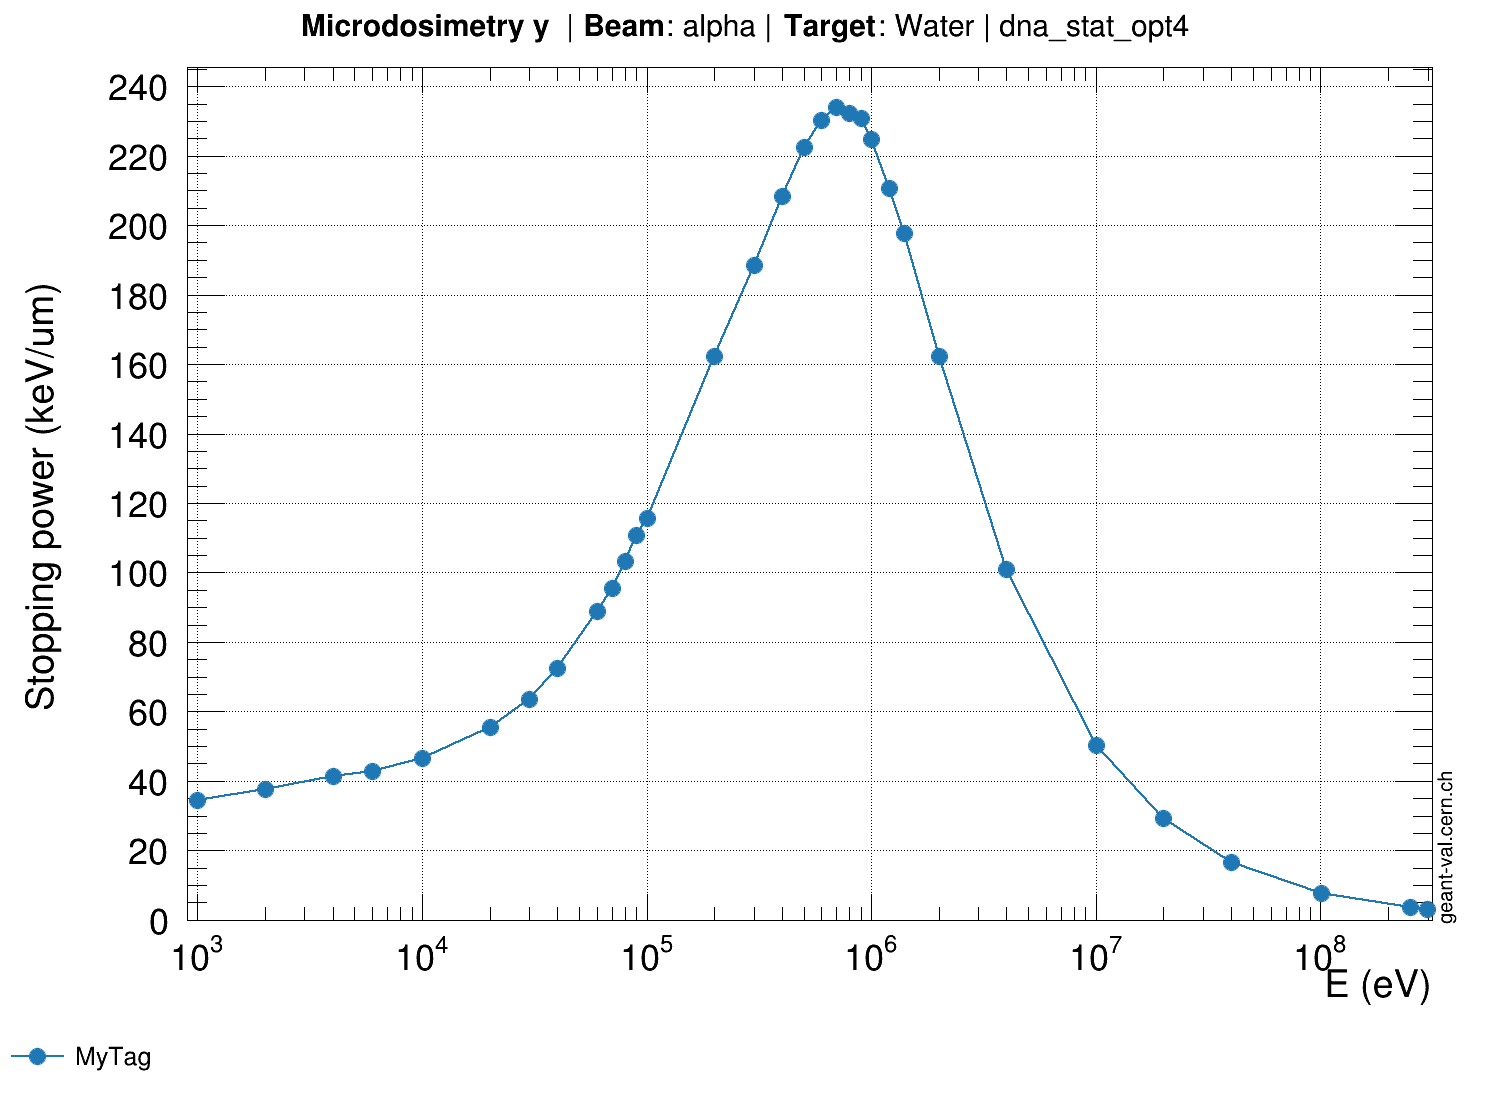
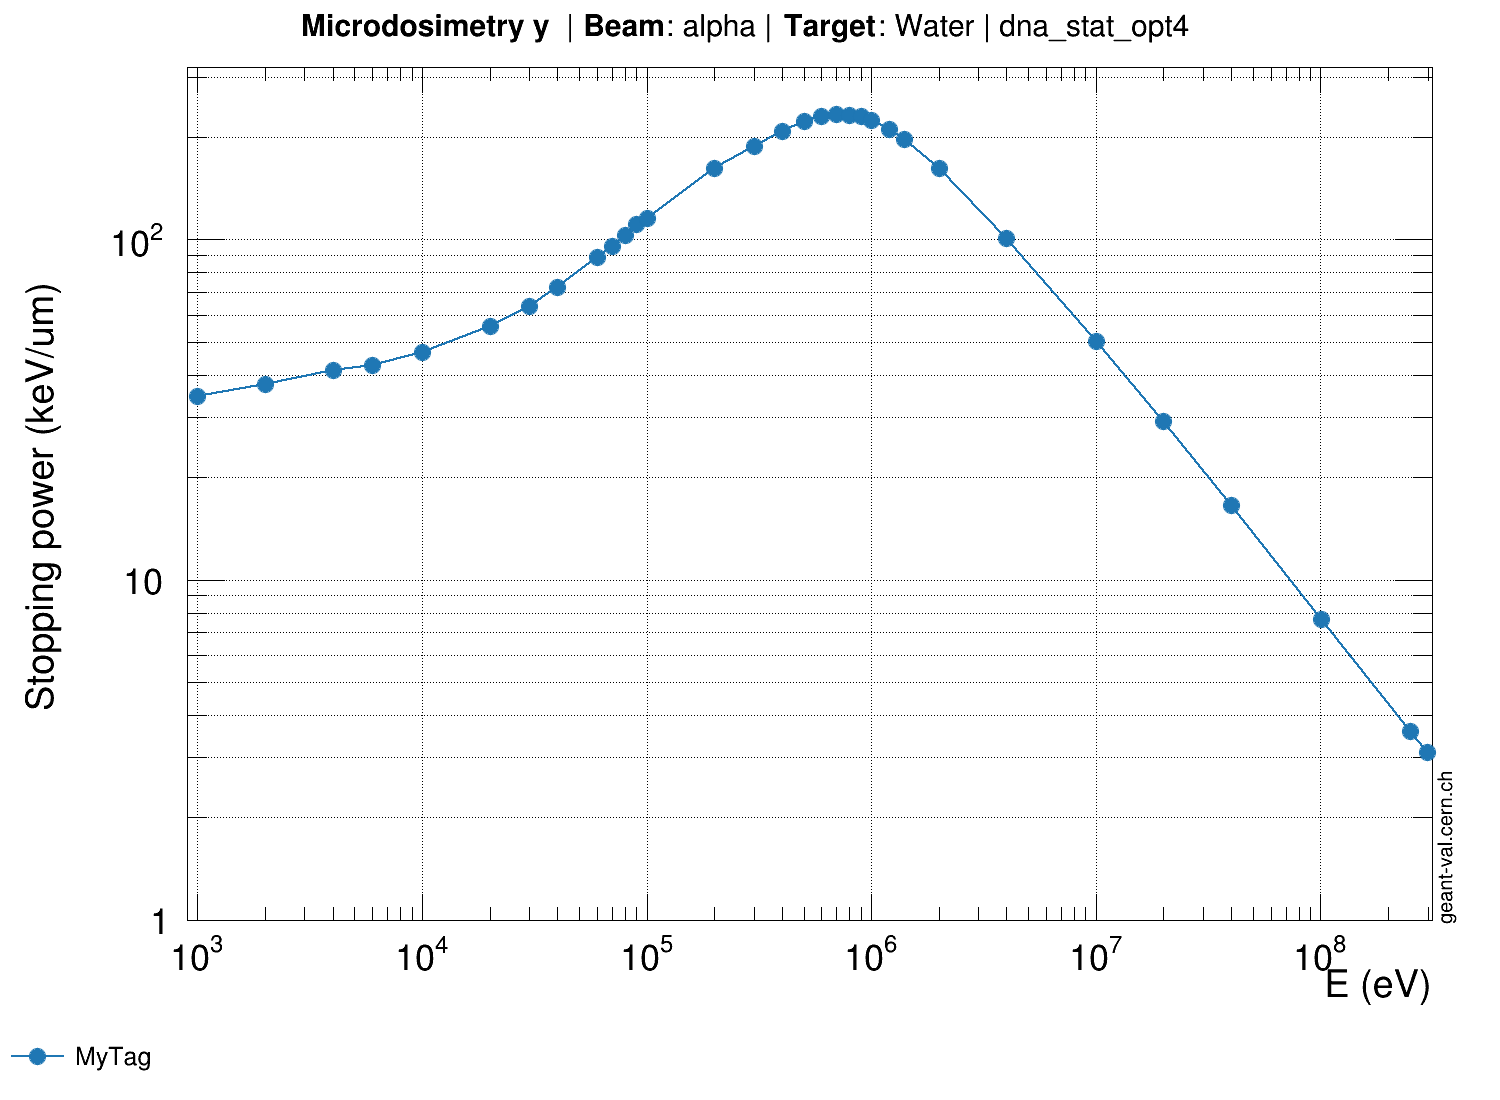
lun. mars 20 15:55:22 CET 2023

diff --git a/assets/OUTPUTJSON/geant4/MyTag/x86_64/spower/alpha.conf.c b/assets/OUTPUTJSON/geant4/MyTag/x86_64/spower/alpha.conf.c
@@ -142,3 +142,147 @@ double gvp_id-1_yerrors[32] = {
   0,
   0
 };
+// Tool:               GEANT4
+// Version:            MyTag
+// Model:              dna_stat_opt4
+// Observable:         microdosimetry y
+// Target:             Water
+// Beam Particle:      alpha
+// Secondary Particle: None
+
+double gvp_id-1_x[32] = {
+  1000,
+  2000,
+  4000,
+  6000,
+  10000,
+  20000,
+  30000,
+  40000,
+  60000,
+  70000,
+  80000,
+  90000,
+  100000,
+  200000,
+  300000,
+  400000,
+  500000,
+  600000,
+  700000,
+  800000,
+  900000,
+  1e+06,
+  1.2e+06,
+  1.4e+06,
+  2e+06,
+  4e+06,
+  1e+07,
+  2e+07,
+  4e+07,
+  1.01e+08,
+  2.5e+08,
+  2.99e+08
+};
+double gvp_id-1_y[32] = {
+  34.5772,
+  37.698,
+  41.3434,
+  42.7933,
+  46.6023,
+  55.5736,
+  63.5463,
+  72.3514,
+  89.0047,
+  95.5218,
+  103.346,
+  110.651,
+  115.691,
+  162.183,
+  188.624,
+  208.505,
+  222.489,
+  230.289,
+  234.062,
+  232.387,
+  230.897,
+  224.77,
+  210.577,
+  197.74,
+  162.354,
+  100.898,
+  50.2785,
+  29.1779,
+  16.5488,
+  7.67027,
+  3.59953,
+  3.11579
+};
+double gvp_id-1_xerrors[32] = {
+  0,
+  0,
+  0,
+  0,
+  0,
+  0,
+  0,
+  0,
+  0,
+  0,
+  0,
+  0,
+  0,
+  0,
+  0,
+  0,
+  0,
+  0,
+  0,
+  0,
+  0,
+  0,
+  0,
+  0,
+  0,
+  0,
+  0,
+  0,
+  0,
+  0,
+  0,
+  0
+};
+double gvp_id-1_yerrors[32] = {
+  0,
+  0,
+  0,
+  0,
+  0,
+  0,
+  0,
+  0,
+  0,
+  0,
+  0,
+  0,
+  0,
+  0,
+  0,
+  0,
+  0,
+  0,
+  0,
+  0,
+  0,
+  0,
+  0,
+  0,
+  0,
+  0,
+  0,
+  0,
+  0,
+  0,
+  0,
+  0
+};
